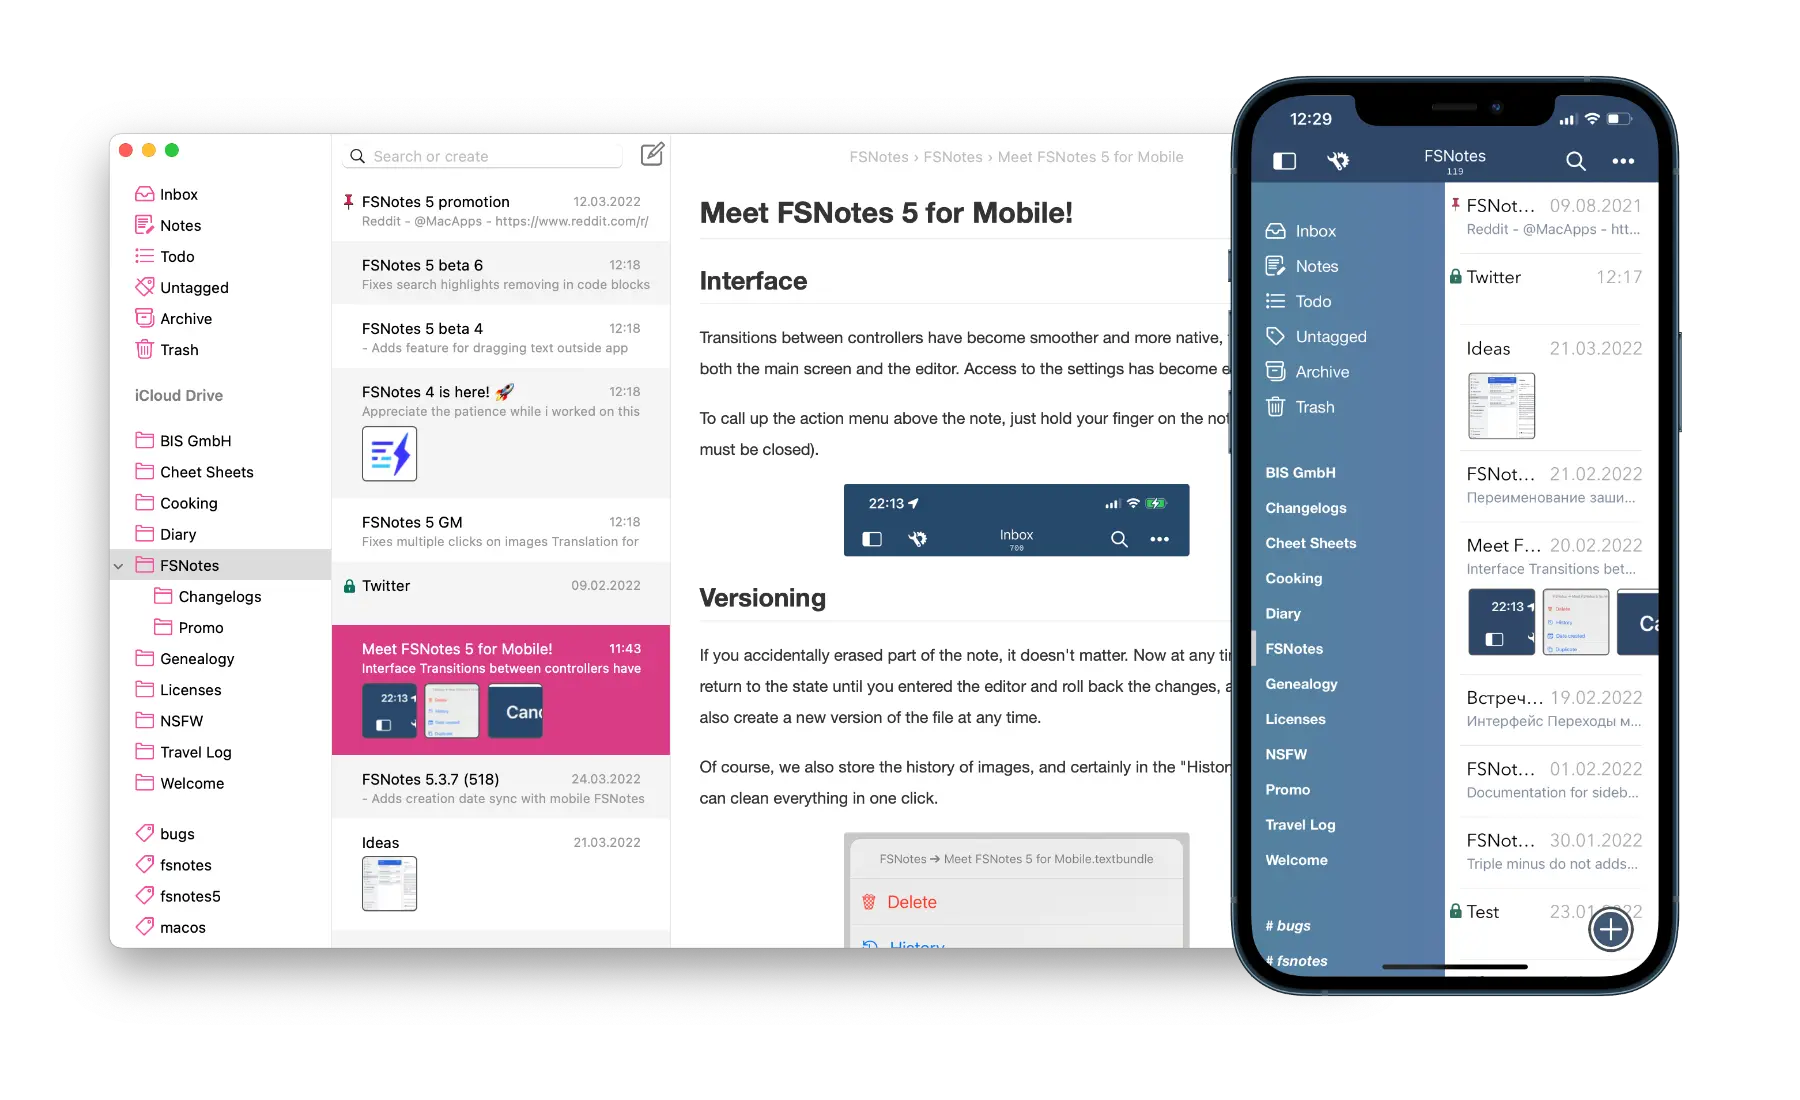
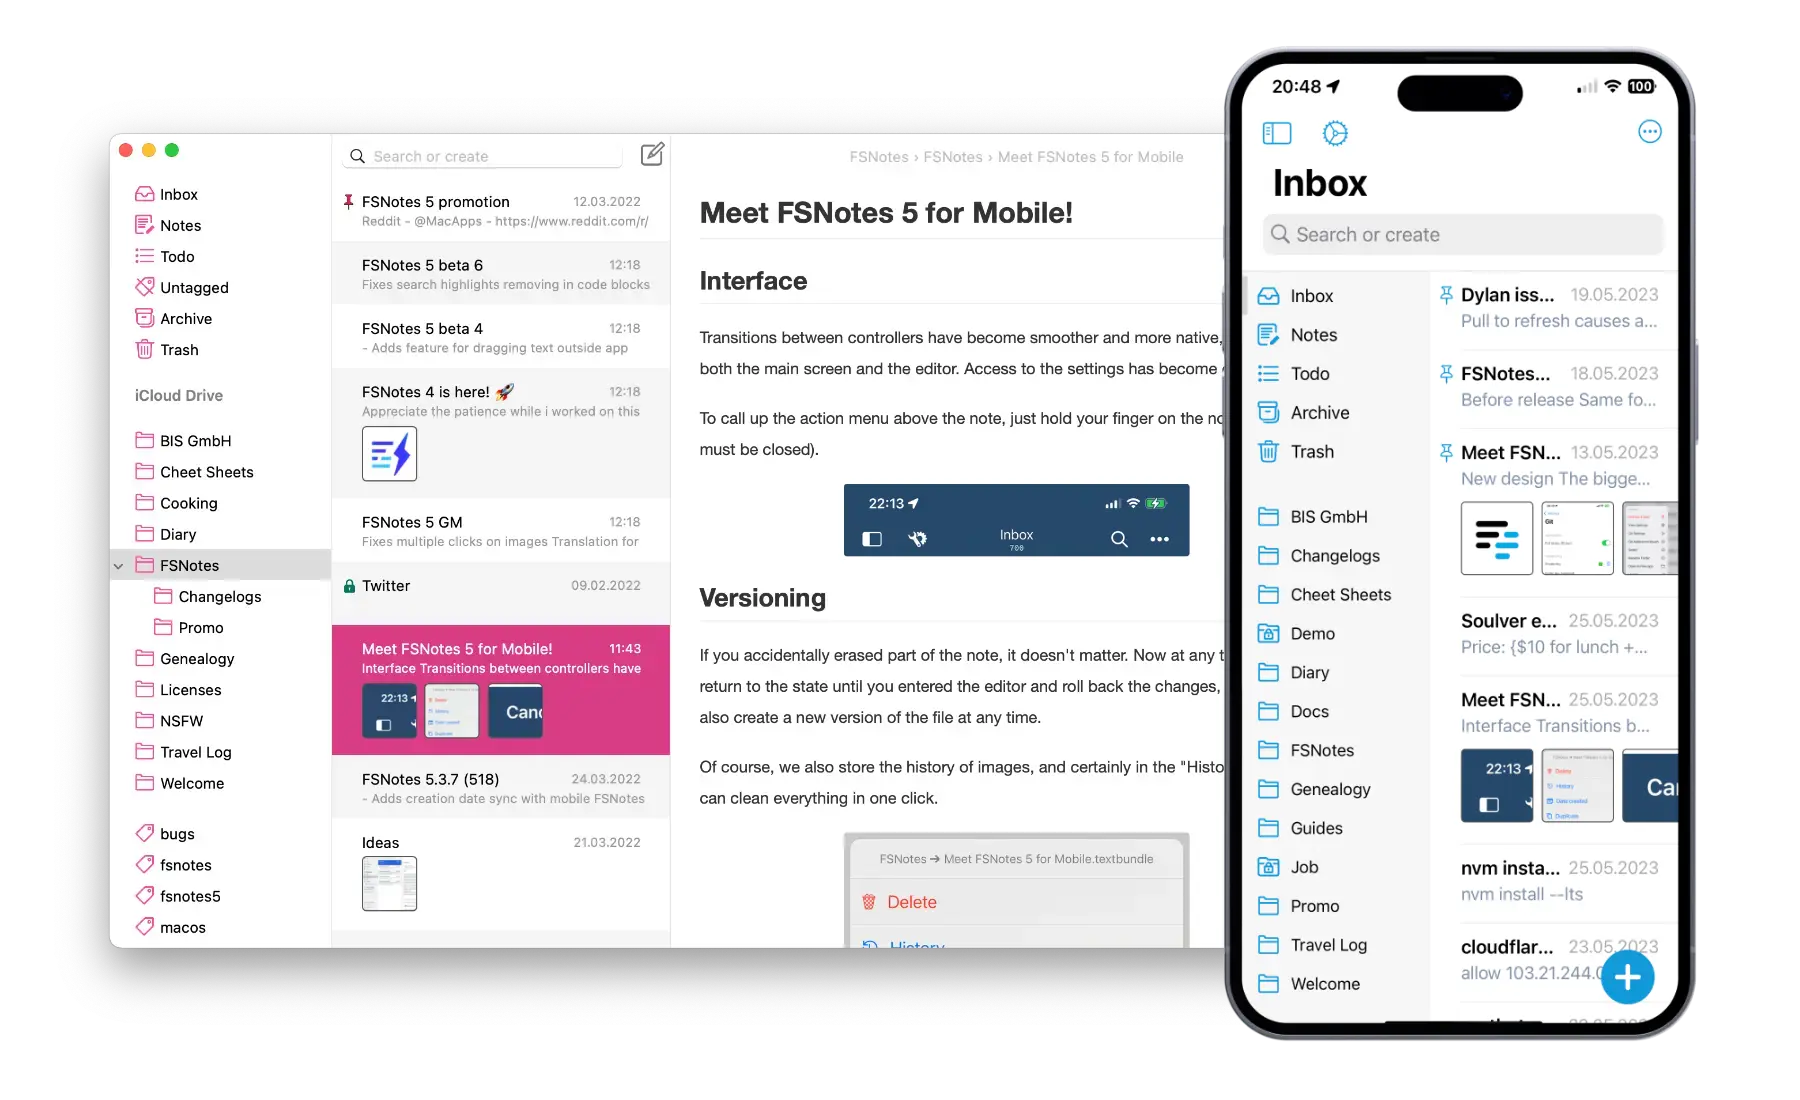
FSNotes 6 for iOS

Changed region(s): [[0.6533, 0.0309, 0.9644, 0.9582]]

diff --git a/layouts/index.html b/layouts/index.html
@@ -92,7 +92,7 @@
         <h2>Many more</h2>
 
         <ul>
-            <li><strong>Markdown-first</strong>. Also supports plaintext and RTF files.</li>
+            <li><strong>Markdown-first</strong>. Supports plaintext files.</li>
             <li><strong>Fast and lightweight</strong>. Works smoothly with 10k+ files.</li>
             <li><strong>Access anywhere</strong>. Sync with iCloud Drive or Dropbox.</li>
             <li><strong>Multi-folder</strong> storage.</li>
@@ -118,24 +118,25 @@
             <h3 id="ios_features" style="margin: 10px 0 20px 0">FSNotes for iOS</h3>
             <ul class="ios-screens">
                 <li>
-                    <img src="img/front/iOS-screen-1.webp?v=1.0" class="ios-screen" />
+                    <img src="img/fsnotes6-ios/s1x.png?v=1.0" class="ios-screen" />
                 </li>
                 <li>
-                    <img src="img/front/iOS-screen-2.webp?v=1.0" class="ios-screen" />
+                    <img src="img/fsnotes6-ios/s2x.png?v=1.0" class="ios-screen" />
                 </li>
             </ul>
 
             <ul>
                 <li><strong>Sync via iCloud Drive</strong>.</li>
-                <li><strong>3D Touch</strong> and <strong>configurable keyboard.</strong></li>
                 <li><strong>TextBundle</strong> and <strong>EncryptedTextBundle</strong> containers.</li>
                 <li><strong>Pinned</strong> notes kept in sync with the desktop app.</li>
-                <li><strong>Dynamic fonts</strong> (iOS 11+).</li>
-                <li><strong>Night mode</strong> by location or screen brightness.</li>
+                <li><strong>Dynamic fonts</strong></li>
+                <li><strong>Dark mode</strong> by location or screen brightness.</li>
                 <li><strong>Sharing</strong> extension.</li>
                 <li><strong>Encrypted note</strong> support.</li>
-                <li><strong>Auto versioning</strong>.</li>
+                <li><strong>Deep git integration</strong>.</li>
+                <li><strong>Encrypted folders</strong> support.</li>
                 <li>Organize with <strong>tags</strong>.</li>
+                <li><strong>Web Pages Creation</strong>.</li>
             </ul>
         </div>
     </div>

diff --git a/layouts/partials/header.html b/layouts/partials/header.html
@@ -39,14 +39,14 @@
                 <a href="/#features">macOS</a>
 
                 <sup class="navi_sup">
-                    <a style="color: red" href="/fsnotes6-for-mac/">v6</a>
+                    <a href="/fsnotes6-for-mac/">v6</a>
                 </sup>
             </li>
             <li>
                 <a href="/#ios_features">iOS</a>
 
                 <sup class="navi_sup">
-                    <a href="/fsnotes5-for-ios/">v5</a>
+                    <a href="/fsnotes6-for-ios/">v6</a>
                 </sup>
             </li>
             <li>

diff --git a/static/css/main.css b/static/css/main.css
@@ -88,10 +88,12 @@ h1 span {
 
 h2 {
     text-align: center;
+    padding: 0 10px;
 }
 
 h3 {
-    font-size: 25px;
+    font-size: 20px;
+    padding: 0 10px;
 }
 
 h1, h2, h3 {
@@ -134,6 +136,10 @@ hr.s {
 
 img {
     max-width: 90%;
+}
+
+p {
+    padding: 0 10px;
 }
 
 .center {
@@ -219,10 +225,6 @@ table td p {
     .container img,
     .content img {
         max-width: 90%;
-    }
-
-    p {
-        padding: 0 10px;
     }
 }
 

diff --git a/layouts/partials/footer.html b/layouts/partials/footer.html
@@ -16,7 +16,7 @@
         </p>
 
 
-        <p>© Oleksandr Hlushchenko, 2017–2022 FSNotes</p>
+        <p>© Oleksandr Hlushchenko, 2017–2023 FSNotes</p>
     </footer>
 </body>
 </html>

diff --git a/content/fsnotes6-for-ios.md b/content/fsnotes6-for-ios.md
@@ -1,0 +1,86 @@
+---
+title: "FSNotes 6 for iOS"
+date: 2023-05-27T18:23:15+03:00
+draft: false
+---
+
+## Meet FSNotes 6 for iOS!
+
+### New design
+
+The biggest design change in the history of the program. The new FSNotes adheres even more to Apple's human interface guidelines. Branded icons, menus, toolbars, headers, animations and smooth transitions. Everything has become closer to the familiar Apple system programs.
+
+I want to give a huge thanks to my friend Dylan Seeger for his valuable advice. Thanks to his ticketing, you see this update like this.
+
+<div style="text-align: center">
+    <img src="/img/fsnotes6-ios/s1x.webp" style="display: inline-block; width: 300px"/>
+    <img src="/img/fsnotes6-ios/s2x.webp" style="display: inline-block; width: 300px"/>
+</div>
+
+---
+
+### Versioning with git
+
+The last version added versioning, but I didn't think it was enough. Therefore, meet git! If you are a programmer, you probably know what it is, but if you don't, you can learn about it here: https://en.wikipedia.org/wiki/Git.
+
+You can create a git repository for each folder and commit your notes and send the changes to your server.
+
+Changes are pulled up when the app activates and you can also set it to do it every 30 seconds automatically.
+
+<div style="text-align: center">
+    <img src="/img/fsnotes6-ios/git-icon.webp" style="display: inline-block; width: 100px"/>
+</div>
+
+---
+
+### Encrypted folders
+
+Folder encryption appeared in the desktop program a year ago, now I'm adding the same feature in the mobile version as well. The first step you should take is to set a master password in the settings.
+
+Then continue to each folder specifically by selecting it in the sidebar with a long press or in the navigation menu.
+
+The selected folder with all the notes will be encrypted with AES-256.
+
+<img src="/img/fsnotes6-ios/encrypt.webp" style="width: 300px"/>
+
+---
+
+### Application icons
+
+The old icon by Roman Kliuchkovych was beautiful, but time is of the essence, for the sixth version the new icon was drawn by Dylan Seeger. You can find his website in the settings!
+
+I often use the main wallpaper color black, so there is also an all-black version. Mine is set to look like this::
+
+<img src="/img/fsnotes6-ios/icon.webp" style="width: 300px"/>
+
+---
+
+### Improvements in the editor
+
+Even more actions are available directly within the editor, thanks to the new toolbar you can now quickly create a new note or go to search on the main screen.
+
+<img src="/img/fsnotes6-ios/toolbar.webp" style="width: 300px"/>
+
+---
+
+### Web sharing
+
+Sometimes there is a need to quickly share a note. However, not everyone has markdown-enabled editors, much less textbundle. For this purpose, I have added publishing to the web. With a long click on a note in the list, bring up the context menu and select the "Create Web Page" menu item.
+
+The note will open in your browser and the link will be copied to your clipboard. So far there is no heavy load and I have not deleted the notes, but over time I think they will be temporary, with a shelf life of 1 month.
+
+<img src="/img/fsnotes6-ios/ipadwpc.webp" style="width: 400px"/>
+
+--- 
+
+### Soulver core
+
+In collaboration with Zac Cohan, SoulverCore syntax has been added. This calculator now displays in Preview mode. Read more about its functions here: https://github.com/soulverteam/SoulverCore#getting-started
+
+### Fixes
+
+Earlier there were some problems with encryption of folders, app crashes, and previewing notes. All of this has been fixed.
+
+New bugs was added of course :)
+
+-- Oleksandr, Kharkiv, Ukraine

diff --git a/content/fsnotes5-for-ios.md b/content/fsnotes5-for-ios.md
@@ -5,6 +5,7 @@ draft: false
 ---
 
 ## Meet FSNotes 5 for Mobile!
+
 ### Interface
 
 Transitions between controllers have become smoother and more native, this applies to both the main screen and the editor. Access to the settings has become easier.
